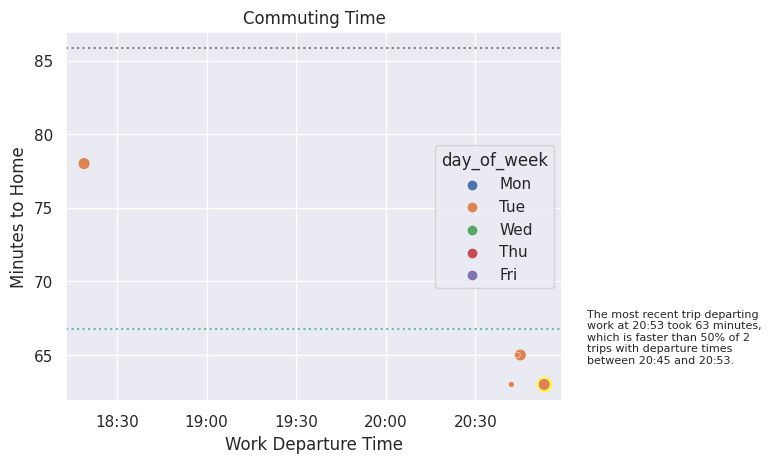
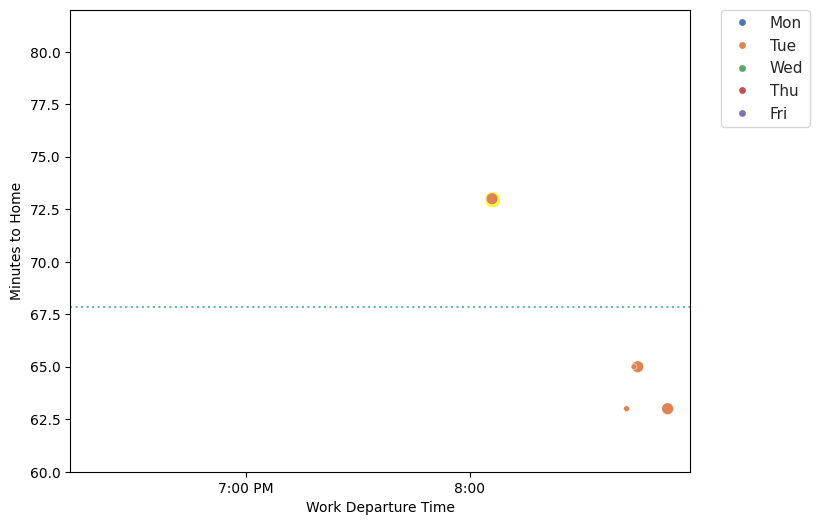
Added condition for plot splits

diff --git a/make_plots.py b/make_plots.py
@@ -107,9 +107,12 @@ def time_xticks(ax, earliest_departure, latest_departure):
         hour_24 = h % 24
         hour_12 = (h - 1) % 12 + 1
 
-        # Add AM to first two tick labels (first one will not be visible)
+        # Add AM or PM to first two tick labels (first one will not be visible)
         if i < 2:
-            label = f"{hour_12}:00 AM"
+            if hour_24 >= 12:
+                label = f"{hour_12}:00 PM"
+            else:
+                label = f"{hour_12}:00 AM"
         # Add PM only to the noon tick (12 PM)
         elif hour_24 == 12 and not pm_suffix_added:
             label = f"{hour_12}:00 PM"
@@ -141,7 +144,6 @@ def duration_vs_departure(filename, df, start='home', end='work', gbr=False,
                           dtr=False, rfr=False, nn=False, xgb=False,
                           ensemble_r=False, comments=False, annotate=True,
                           show_extra_prediction_lines=False):
-    # fig = plt.figure()
 
     plt.style.use('default')
     sns.reset_orig()
@@ -157,11 +159,19 @@ def duration_vs_departure(filename, df, start='home', end='work', gbr=False,
     lower_mask = df['minutes_to_' + end] < mean + plot_split
     upper_mask = df['minutes_to_' + end] >= mean + plot_split
 
-    # Create two subplots, stacked vertically, sharing x-axis
-    fig, (ax_upper, ax_lower) = plt.subplots(
-        2, 1, sharex=True, figsize=(8, 6),
-        gridspec_kw={'height_ratios': [1, 5], 'hspace': 0.0}
-    )
+    # Determine if we need split plots based on dataset size
+    use_split_plot = len(df) > 20
+
+    if use_split_plot:
+        # Create two subplots, stacked vertically, sharing x-axis
+        fig, (ax_upper, ax_lower) = plt.subplots(
+            2, 1, sharex=True, figsize=(8, 6),
+            gridspec_kw={'height_ratios': [1, 5], 'hspace': 0.0}
+        )
+    else:
+        # Create single plot
+        fig, ax_lower = plt.subplots(figsize=(8, 6))
+        ax_upper = None
 
     # Apply the default theme
     sns.set_theme(style='white')
@@ -171,39 +181,43 @@ def duration_vs_departure(filename, df, start='home', end='work', gbr=False,
                     y='minutes_to_' + end, hue='day_of_week',
                     hue_order=['Mon', 'Tue', 'Wed', 'Thu', 'Fri'], s=1,
                     ax=ax_lower)
-    sns.scatterplot(data=df[upper_mask], x=start + '_departure_time_hr',
-                    y='minutes_to_' + end, hue='day_of_week',
-                    hue_order=['Mon', 'Tue', 'Wed', 'Thu', 'Fri'], s=1,
-                    ax=ax_upper, legend=False)
+    if use_split_plot:
+        sns.scatterplot(data=df[upper_mask], x=start + '_departure_time_hr',
+                        y='minutes_to_' + end, hue='day_of_week',
+                        hue_order=['Mon', 'Tue', 'Wed', 'Thu', 'Fri'], s=1,
+                        ax=ax_upper, legend=False)
 
-    # Hide the spines between ax_lower and ax_upper
-    ax_lower.spines['top'].set_visible(False)
-    ax_upper.spines['bottom'].set_visible(False)
+        # Hide the spines between ax_lower and ax_upper
+        ax_lower.spines['top'].set_visible(False)
+        ax_upper.spines['bottom'].set_visible(False)
 
-    # Remove x tick labels from the upper plot
-    ax_upper.tick_params(labelbottom=False)
+        # Remove x tick labels from the upper plot
+        ax_upper.tick_params(labelbottom=False)
 
-    # Add diagonal lines to indicate the break
-    d = .015  # size of diagonal lines in axes coordinates
-    kwargs = dict(transform=ax_lower.transAxes, color='k', clip_on=False)
-    # top-left diagonal
-    ax_lower.plot((-d, +d), (1 - d, 1 + d), **kwargs)
-    # top-right diagonal
-    ax_lower.plot((1 - d, 1 + d), (1 - d, 1 + d), **kwargs)
+        # Add diagonal lines to indicate the break
+        d = .015  # size of diagonal lines in axes coordinates
+        kwargs = dict(transform=ax_lower.transAxes, color='k', clip_on=False)
+        ax_lower.plot((-d, +d), (1 - d, 1 + d), **kwargs)
+        ax_lower.plot((1 - d, 1 + d), (1 - d, 1 + d), **kwargs)
 
     # Get the legend handles and labels
     # (to enlarge legend scatter points later on)
-    handles, labels = ax_upper.get_legend_handles_labels()
+    # handles, labels = ax_upper.get_legend_handles_labels()
+    handles, labels = ax_lower.get_legend_handles_labels()
 
     # Highlight the most recent trip by putting a yellow halo around it
     df_subset = df[[start + '_departure_time_hr', 'minutes_to_' + end]]
     df_subset = df_subset.dropna()
     x_latest = df_subset[start + '_departure_time_hr'][df_subset.index[-1]]
     y_latest = df_subset['minutes_to_' + end][df_subset.index[-1]]
-    if y_latest < mean + plot_split:
+
+    if use_split_plot:
+        if y_latest < mean + plot_split:
+            ax_lower.scatter(x_latest, y_latest, c='#FFFF14', s=100)
+        elif y_latest >= mean + plot_split:
+            ax_upper.scatter(x_latest, y_latest, c='#FFFF14', s=100)
+    else:
         ax_lower.scatter(x_latest, y_latest, c='#FFFF14', s=100)
-    elif y_latest >= mean + plot_split:
-        ax_upper.scatter(x_latest, y_latest, c='#FFFF14', s=100)
 
     # Calculate the deviation of the most recent trip
     z = (y_latest - mean) / sigma if sigma else 0
@@ -249,8 +263,10 @@ def duration_vs_departure(filename, df, start='home', end='work', gbr=False,
     ax_lower.axhline(mean, color='c', linestyle='dotted', label='Mean')
 
     # Add horizontal line at 3 * sigma
-    ax_upper.axhline(mean + three_sigma, color='gray', linestyle='dotted')
-    # This line does not show up but the label is needed for the legend
+    if use_split_plot:
+        ax_upper.axhline(mean + three_sigma, color='gray', linestyle='dotted')
+
+    # Even if this line shows up in ax_upper the label is needed for the legend
     ax_lower.axhline(mean + three_sigma, color='gray', linestyle='dotted',
                      label=r'Mean + $3\sigma$')
 
@@ -258,12 +274,15 @@ def duration_vs_departure(filename, df, start='home', end='work', gbr=False,
     y_lower_min = df['minutes_to_' + end].min() - 1
     y_upper_max = df['minutes_to_' + end].max() + 4
 
-    if end == 'home':
-        gap = -1
+    if use_split_plot:
+        if end == 'home':
+            gap = -1
+        else:
+            gap = -3
+        ax_lower.set_ylim(y_lower_min, mean + plot_split - gap)
+        ax_upper.set_ylim(mean + plot_split + gap, y_upper_max)
     else:
-        gap = -3
-    ax_lower.set_ylim(y_lower_min, mean + plot_split - gap)
-    ax_upper.set_ylim(mean + plot_split + gap, y_upper_max)
+        ax_lower.set_ylim(y_lower_min, y_upper_max)
 
     # Add comments near points
     if comments:
@@ -289,26 +308,31 @@ def duration_vs_departure(filename, df, start='home', end='work', gbr=False,
     ax_lower = sns.scatterplot(data=df[lower_mask],
                                x=start + '_departure_time_hr',
                                y='minutes_to_' + end, hue='day_of_week',
-                               hue_order=['Mon', 'Tue', 'Wed', 'Thu', 'Fri'],
+                               hue_order=['Mon', 'Tue', 'Wed', 'Thu',
+                                          'Fri'],
                                size='mileage_to_' + end, legend=False,
                                ax=ax_lower)
-    ax_upper = sns.scatterplot(data=df[upper_mask],
-                               x=start + '_departure_time_hr',
-                               y='minutes_to_' + end, hue='day_of_week',
-                               hue_order=['Mon', 'Tue', 'Wed', 'Thu', 'Fri'],
-                               size='mileage_to_' + end, legend=False,
-                               ax=ax_upper)
+    if use_split_plot:
+        ax_upper = sns.scatterplot(data=df[upper_mask],
+                                   x=start + '_departure_time_hr',
+                                   y='minutes_to_' + end, hue='day_of_week',
+                                   hue_order=['Mon', 'Tue', 'Wed', 'Thu',
+                                              'Fri'],
+                                   size='mileage_to_' + end, legend=False,
+                                   ax=ax_upper)
     ax_lower = time_xticks(ax_lower, df[start + '_departure_time_hr'].min(),
                            df[start + '_departure_time_hr'].max())
-    ax_upper = time_xticks(ax_upper, df[start + '_departure_time_hr'].min(),
-                           df[start + '_departure_time_hr'].max())
+    if use_split_plot:
+        ax_upper = time_xticks(
+            ax_upper, df[start + '_departure_time_hr'].min(),
+            df[start + '_departure_time_hr'].max())
 
     # Practice with statsmodels
     x, y = model.linear_prediction_from_statsmodels(df, start, end)
     if show_extra_prediction_lines:
-        # ax.plot(x, y, c='b', label='Linear', linestyle='dotted')
         ax_lower.plot(x, y, c='b', label='Linear', linestyle='dotted')
-        ax_upper.plot(x, y, c='b', label='Linear', linestyle='dotted')
+        if use_split_plot:
+            ax_upper.plot(x, y, c='b', label='Linear', linestyle='dotted')
 
     # TODO: Consider filtering out outliers using the 3 sigma from linear fit
     # line instead of the 3 sigma from the mean line
@@ -334,7 +358,8 @@ def duration_vs_departure(filename, df, start='home', end='work', gbr=False,
         print("GBR --- %s seconds ---" % (time.time() - start_time))
         if show_extra_prediction_lines:
             ax_lower.plot(x, y, c='c', label='Gradient Boosting')
-            ax_upper.plot(x, y, c='c', label='Gradient Boosting')
+            if use_split_plot:
+                ax_upper.plot(x, y, c='c', label='Gradient Boosting')
     if dtr:
         start_time = time.time()
         # dtreg, mse = model.fit_dtr(X_train, X_test, y_train, y_test)
@@ -345,7 +370,8 @@ def duration_vs_departure(filename, df, start='home', end='work', gbr=False,
         print("DTR --- %s seconds ---" % (time.time() - start_time))
         if show_extra_prediction_lines:
             ax_lower.plot(x, y, c='g', label='Decision Tree')
-            ax_upper.plot(x, y, c='g', label='Decision Tree')
+            if use_split_plot:
+                ax_upper.plot(x, y, c='g', label='Decision Tree')
     if rfr:
         start_time = time.time()
         # rfreg, mse = model.fit_rfr(X_train, X_test, y_train, y_test)
@@ -356,7 +382,8 @@ def duration_vs_departure(filename, df, start='home', end='work', gbr=False,
         print("RFR --- %s seconds ---" % (time.time() - start_time))
         if show_extra_prediction_lines:
             ax_lower.plot(x, y, c='m', label='Random Forest')
-            ax_upper.plot(x, y, c='m', label='Random Forest')
+            if use_split_plot:
+                ax_upper.plot(x, y, c='m', label='Random Forest')
     if nn:
         start_time = time.time()
         nnreg, mse = model.fit_nn(X_train, X_test, y_train, y_test)
@@ -364,7 +391,8 @@ def duration_vs_departure(filename, df, start='home', end='work', gbr=False,
         print("NN --- %s seconds ---" % (time.time() - start_time))
         if show_extra_prediction_lines:
             ax_lower.plot(x, y, c='orange', label='Neural Network')
-            ax_upper.plot(x, y, c='orange', label='Neural Network')
+            if use_split_plot:
+                ax_upper.plot(x, y, c='orange', label='Neural Network')
     if xgb:
         start_time = time.time()
         # xgbreg, mse = model.fit_xgbr(X_train, X_test, y_train, y_test)
@@ -375,7 +403,8 @@ def duration_vs_departure(filename, df, start='home', end='work', gbr=False,
         print("XGB --- %s seconds ---" % (time.time() - start_time))
         if show_extra_prediction_lines:
             ax_lower.plot(x, y, c='k', label='XGBoost')
-            ax_upper.plot(x, y, c='k', label='XGBoost')
+            if use_split_plot:
+                ax_upper.plot(x, y, c='k', label='XGBoost')
 
     if ensemble_r:
         start_time = time.time()
@@ -395,22 +424,26 @@ def duration_vs_departure(filename, df, start='home', end='work', gbr=False,
         x, y = model.prediction(ensmbl, df, start)
         print("Ensemble --- %s seconds ---" % (time.time() - start_time))
         if show_extra_prediction_lines:
-            # ax.plot(x, y, c='chartreuse', label='Ensemble')
             ax_lower.plot(x, y, c='chartreuse', label='Ensemble')
-            ax_upper.plot(x, y, c='chartreuse', label='Ensemble')
+            if use_split_plot:
+                ax_upper.plot(x, y, c='chartreuse', label='Ensemble')
         else:
             ax_lower.plot(x, y, c='k', label='ML Prediction')
-            ax_upper.plot(x, y, c='k', label='ML Prediction')
+            if use_split_plot:
+                ax_upper.plot(x, y, c='k', label='ML Prediction')
 
-    if gbr or dtr or rfr or nn or xgb:
-        # Create a new legend with larger markers
-        plt.legend(handles=handles, labels=labels, markerscale=5,
-                   bbox_to_anchor=(1.05, 1), loc=2, borderaxespad=0.)
+    # if gbr or dtr or rfr or nn or xgb:
+    #     # Create a new legend with larger markers
+    #     plt.legend(handles=handles, labels=labels, markerscale=5,
+    #                bbox_to_anchor=(1.05, 1), loc=2, borderaxespad=0.)
+    plt.legend(handles=handles, labels=labels, markerscale=5,
+               bbox_to_anchor=(1.05, 1), loc=2, borderaxespad=0.)
 
     # Specfiy axis labels
     ax_lower.set(xlabel=start.capitalize() + ' Departure Time',
                  ylabel='Minutes to ' + end.capitalize(), title='')
-    ax_upper.set(xlabel='', ylabel='', title='Commuting Time')
+    if use_split_plot:
+        ax_upper.set(xlabel='', ylabel='', title='Commuting Time')
 
     yticks = ax_lower.get_yticks()
     # Remove the max tick(s)

diff --git a/data_processing.py b/data_processing.py
@@ -59,9 +59,10 @@ def process_data(filename='commuting_data.csv'):
         ).dt.total_seconds()/(60*60)
         # Subtract 4 minutes from 'minutes_to_work' if 'gas' appears
         # in that row under the column 'comments_from_home_to_work'
-        gas_mask = df['comments_from_home_to_work'].str.contains(
-            'gas', na=False)
-        df.loc[gas_mask, 'minutes_to_work'] -= 4
+        if ('comments_from_home_to_work' in df.columns and
+                df['comments_from_home_to_work'].notna().any()):
+            df.loc[df['comments_from_home_to_work'].str.contains(
+                'gas', na=False), 'minutes_to_work'] -= 4
     if 'home_arrival_time' in df.columns:
         df['minutes_to_home'] = (
             df['home_arrival_time'] - df['work_departure_time']
@@ -78,8 +79,10 @@ def process_data(filename='commuting_data.csv'):
         ).dt.total_seconds()/(60*60)
         # Subtract 4 minutes from 'minutes_to_home' if 'gas' appears
         # in that row under the column 'comments_from_work_to_home'
-        df.loc[df['comments_from_work_to_home'].str.contains(
-            'gas', na=False), 'minutes_to_home'] -= 4
+        if ('comments_from_work_to_home' in df.columns and
+                df['comments_from_work_to_home'].notna().any()):
+            df.loc[df['comments_from_work_to_home'].str.contains(
+                'gas', na=False), 'minutes_to_home'] -= 4
 
     # Adding column for month to help explore seasonality in the data
     df['date'] = pd.to_datetime(df['date'])

diff --git a/main.py b/main.py
@@ -35,11 +35,11 @@ mp.duration_vs_departure(filename, df, start='work', end='home',
 #                          xgb=True, ensemble_r=True)
 # mp.driving_and_waiting_vs_departure(filename, df)
 
-# filename = 'commuting_bellevue.csv'
-# df = dp.process_data(filename)
+filename = 'commuting_bellevue.csv'
+df = dp.process_data(filename)
 # mp.duration_vs_departure(filename, df,
 #                          gbr=False, dtr=False, rfr=False, nn=False,
 #                          xgb=False, ensemble_r=False)
-# mp.duration_vs_departure(filename, df, start='work', end='home',
-#                          gbr=False, dtr=False, rfr=False, nn=False,
-#                          xgb=False, ensemble_r=False)
+mp.duration_vs_departure(filename, df, start='work', end='home',
+                         gbr=False, dtr=False, rfr=False, nn=False,
+                         xgb=False, ensemble_r=False)
